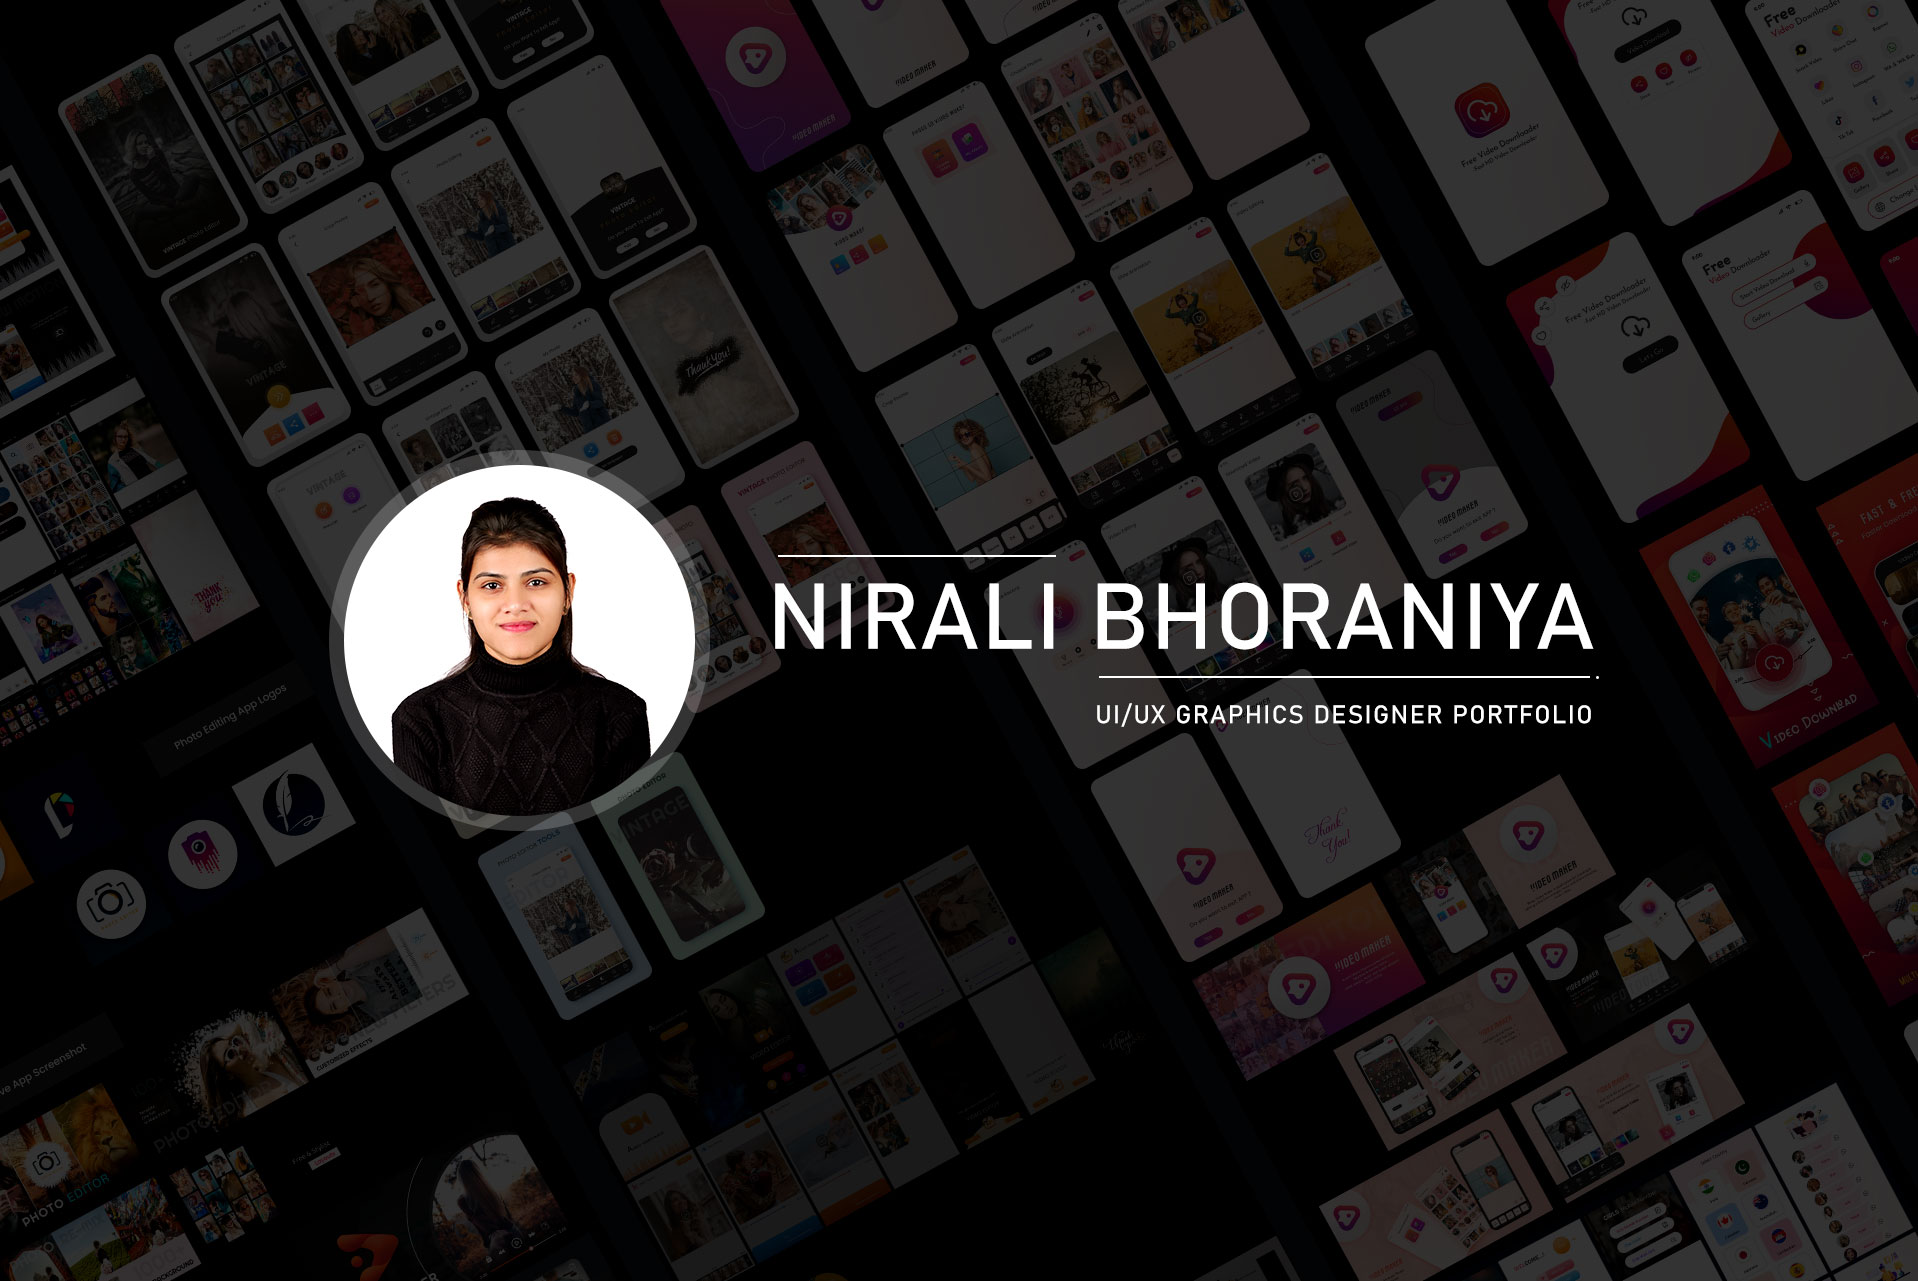
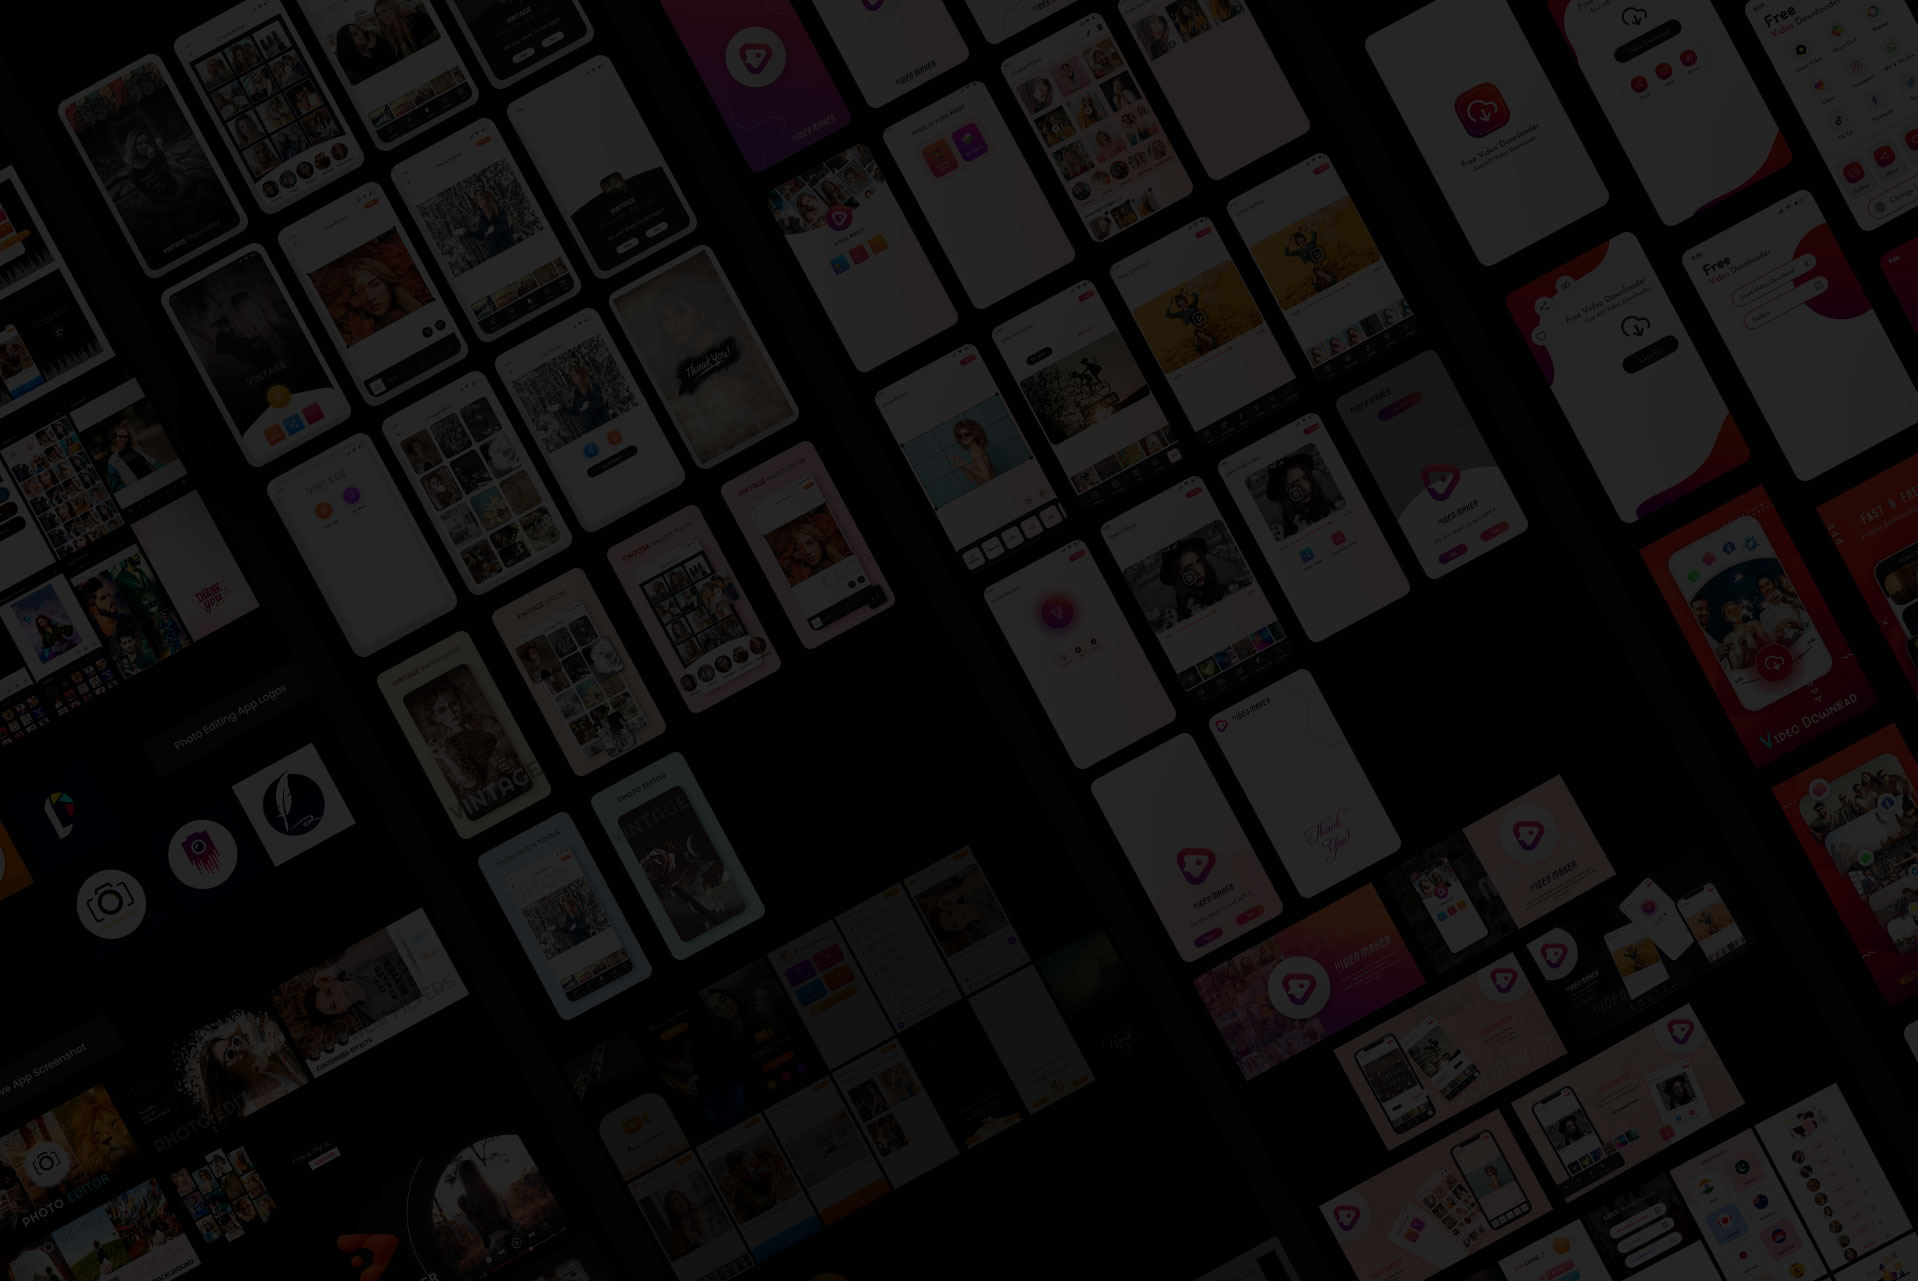
Header Fix

Changed region(s): [[0.1538, 0.3435, 0.3691, 0.6557], [0.3999, 0.4372, 0.8306, 0.5621]]

diff --git a/index.html b/index.html
@@ -113,85 +113,36 @@
 
     <!-- ==================== Start Slider ==================== -->
 
-    <header class="slider  fixed-slider text-center">
-        <div class="swiper-container parallax-slider">
-            <div class="swiper-wrapper">
-                <div class="swiper-slide">
-                    <div class="bg-img valign" data-background="img/slider.jpg" data-overlay-dark="3">
-                        <div class="container">
-                            <div class="row justify-content-center">
-                                <div class="col-lg-7 col-md-9">
-                                    <!--<div class="caption center">
-                                        <h1 data-splitting>Unique <br> brand Stories</h1>
-                                        <p>If you need to redesign your new project, new visual strategy, ux structure
-                                            or you do have some cool ideas for collaboration.</p>
-                                        <a href="#0" class="btn-curve btn-lit mt-30">
-                                            <span>Look More</span>
-                                        </a>
-                                    </div>-->
-                                </div>
-                            </div>
+    <header class="freelancer sub-bg valign bg-img parallaxie" data-background="img/slider.jpg" data-overlay-dark="4" style="background-image: url(&quot;img/slid/freelancer.jpg&quot;); background-size: cover; background-repeat: no-repeat; background-attachment: fixed; background-position: center 0px;">
+        <div class="container">
+            <div class="row">
+                <div class="col-lg-6">
+                    <div class="cont">
+                        <h6>Hello, I'm</h6>
+                        <h1>Nirali Bhoraniya</h1>
+                        <h4>UI &amp; UX Designer</h4>
+                        <div class="social-icon">
+                            <a target="_blank" href="https://www.facebook.com/nilu.bhoraniya" class="icon">
+                                <i class="fab fa-facebook-f"></i>
+                            </a>
+                            <a target="_blank" href="https://www.instagram.com/_nilu_99_/" class="icon">
+                                <i class="fab fa-instagram"></i>
+                            </a>
+                            <a target="_blank" href="#0" class="icon">
+                                <i class="fab fa-twitter"></i>
+                            </a>
+                            <a target="_blank" href="https://www.upwork.com/freelancers/~0152dc7c00b141fd04?viewMode=1" class="icon">
+                                <img class="icon" src="img/upwork.png" style="width:50%"alt="">
+                            </a>
                         </div>
                     </div>
                 </div>
-                <!--<div class="swiper-slide">
-                    <div class="bg-img valign" data-background="img/slid/03.jpg" data-overlay-dark="6">
-                        <div class="container">
-                            <div class="row justify-content-center">
-                                <div class="col-lg-7 col-md-9">
-                                    <div class="caption center">
-                                        <h1 data-splitting>Digital <br> Design Awards</h1>
-                                        <p>If you need to redesign your new project, new visual strategy, ux structure
-                                            or you do have some cool ideas for collaboration.</p>
-                                        <a href="#0" class="btn-curve btn-lit mt-30">
-                                            <span>Look More</span>
-                                        </a>
-                                    </div>
-                                </div>
-                            </div>
-                        </div>
-                    </div>
+                <div class="col-lg-6">
+                    <img src="img/slider_mypic.png" alt="">
                 </div>
-                <div class="swiper-slide">
-                    <div class="bg-img valign" data-background="img/slid/02.jpg" data-overlay-dark="6">
-                        <div class="container">
-                            <div class="row justify-content-center">
-                                <div class="col-lg-7 col-md-9">
-                                    <div class="caption center">
-                                        <h1 data-splitting>Original Solutions</h1>
-                                        <p>If you need to redesign your new project, new visual strategy, ux structure
-                                            or you do have some cool ideas for collaboration.</p>
-                                        <a href="#0" class="btn-curve btn-lit mt-30">
-                                            <span>Look More</span>
-                                        </a>
-                                    </div>
-                                </div>
-                            </div>
-                        </div>
-                    </div>
-                </div>-->
-            </div>
-
-            <!-- slider setting -->
-            <div class="setone setwo">
-                <!--<div class="swiper-button-next swiper-nav-ctrl next-ctrl cursor-pointer">
-                    <i class="fas fa-chevron-right"></i>
-                </div>
-                <div class="swiper-button-prev swiper-nav-ctrl prev-ctrl cursor-pointer">
-                    <i class="fas fa-chevron-left"></i>
-                </div>-->
-            </div>
-            <div class="swiper-pagination top botm custom-font"></div>
-
-            <div class="social-icon">
-                <!--
-                <a href="#0"><i class="fab fa-facebook-f"></i></a>
-                <a href="#0"><i class="fab fa-twitter"></i></a>
-                <a href="#0"><i class="fab fa-behance"></i></a>
-                <a href="#0"><i class="fab fa-pinterest-p"></i></a>
-            -->
             </div>
         </div>
+
     </header>
 
     <!-- ==================== End Slider ==================== -->
@@ -865,7 +816,7 @@
                                 </div>
                             </form>
                         </div>
-                        <div class="insta">
+                        <!--<div class="insta">
                             <h6 class="custom-font stit simple-btn">Instagram Post</h6>
                             <div class="insta-gallary">
                                 <a href="#">
@@ -878,7 +829,7 @@
                                     <img src="img/insta/3.jpg" alt="">
                                 </a>
                             </div>
-                        </div>
+                        </div>-->
                     </div>
                 </div>
                 <div class="copyrights text-center">
